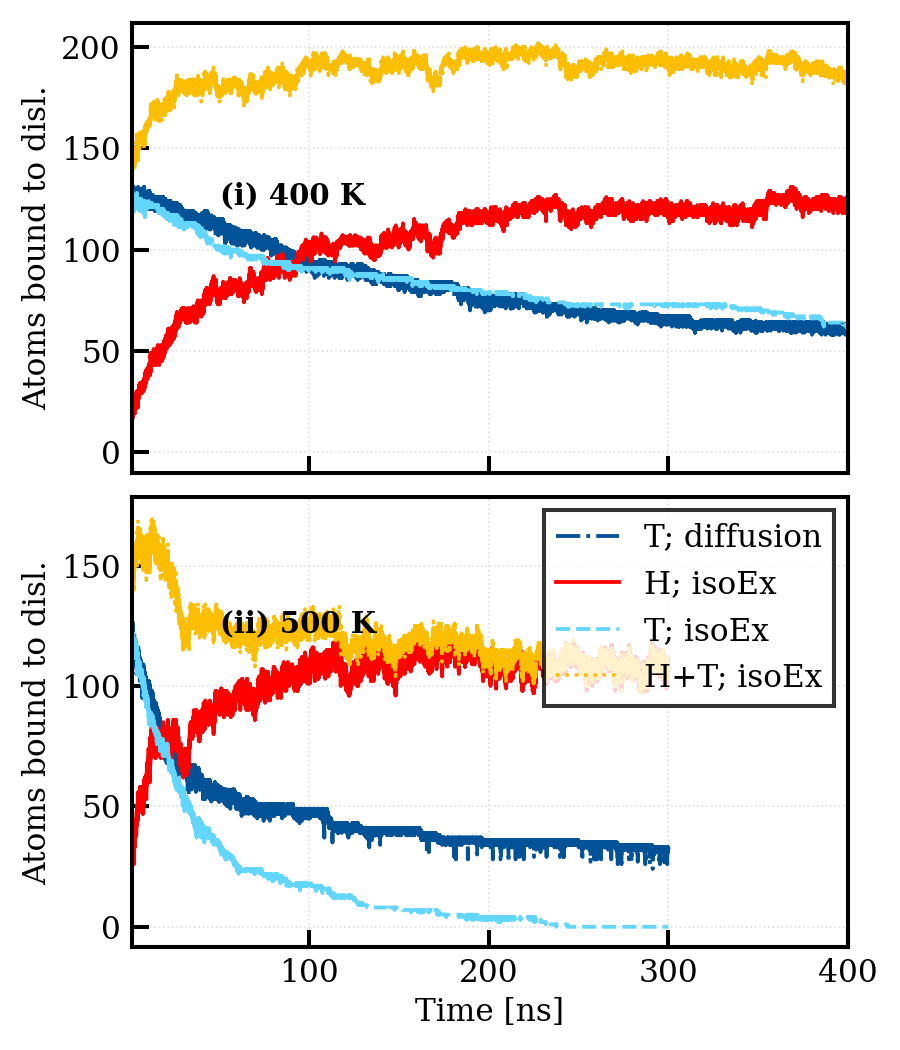
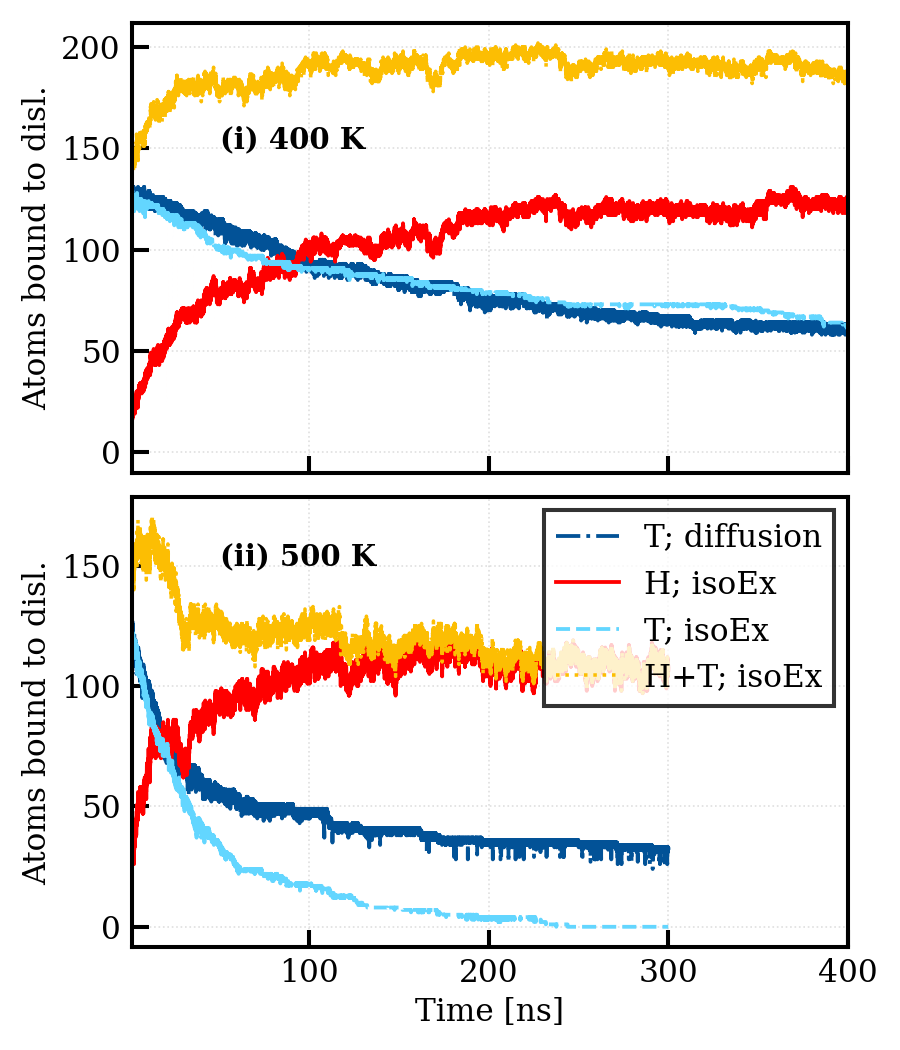
adjust plot labels

Changed region(s): [[0.2489, 0.1219, 0.4044, 0.2133], [0.2489, 0.579, 0.4356, 0.6095], [0.2489, 0.5181, 0.4356, 0.5486]]

diff --git a/plotting-scripts/plot_disloc_isoEx_comp.py b/plotting-scripts/plot_disloc_isoEx_comp.py
@@ -11,7 +11,7 @@ path += 'disloc_isoEx_results/'
 # HinVac.out format: Timestep NTinVac NHinVac NTinCell
 tTH_isoEx_400K = readData(path+'disloc_isoEx_400K_500ns/HinDisl.out', [0,1,2])
 tT_diff_400K = readData(path+'disloc_isoEx_400K_0H_500ns/HinDisl.out', [0,1])
-tTH_isoEx_500K = readData(path+'disloc_isoEx_500K_300ns/HinDisl.out', [0,1,2])
+tTH_isoEx_500K = readData(path+'disloc_isoEx_500K_350ns/HinDisl.out', [0,1,2])
 tT_diff_500K = readData(path+'disloc_isoEx_500K_0H_300ns/HinDisl.out', [0,1])
 
 # Convert timesteps --> time in ns
@@ -53,7 +53,7 @@ plotter(tTH_isoEx_400K[init:final:step, 0], tTH_isoEx_400K[init:final:step, 1], 
 plotter(tTH_isoEx_400K[init:final:step, 0], tTH_isoEx_400K[init:final:step,1]+tTH_isoEx_400K[init:final:step,2], isoEx_style['H+T'], isoEx_labels['H+T']) 
 plt.xlim((1, xulim))
 plt.ylabel(ylbl)
-plt.text(50, 122.5, '(i) 400 K', font)
+plt.text(50, 150, '(i) 400 K', font)
 plt.gca().axes.get_xaxis().set_ticklabels([]) # Hide x-axis tick labels
 
 # 500 K
@@ -65,7 +65,7 @@ plotter(tTH_isoEx_500K[init:final:step, 0], tTH_isoEx_500K[init:final:step,1]+tT
 plt.xlim((1, xulim))
 plt.xlabel(xlbl)
 plt.ylabel(ylbl)
-plt.text(50, 122.5, '(ii) 500 K', font)
+plt.text(50, 150, '(ii) 500 K', font)
 leg = plt.legend(loc='upper right', bbox_to_anchor=(0.999, 0.999), framealpha=0.8) 
 leg.get_frame().set_linewidth(1.5*pltm)  # Legend bow linewidth
 #plt.gca().axes.get_xaxis().set_ticklabels([]) # Hide x-axis tick labels
@@ -91,7 +91,7 @@ plotter(tTH_isoEx_400K[init:final:step, 0], tTH_isoEx_400K[init:final:step, 1], 
 plotter(tTH_isoEx_400K[init:final:step, 0], tTH_isoEx_400K[init:final:step,1]+tTH_isoEx_400K[init:final:step,2], isoEx_style['H+T'], isoEx_labels['H+T']) 
 plt.xlim((1, xulim))
 plt.ylabel(ylbl)
-plt.text(1.3, 88, '(i) 400 K', font)
+plt.text(1.3, 175, '(i) 400 K', font)
 #leg = plt.legend(loc='lower right', bbox_to_anchor=(0.99, 0.03))
 #leg.get_frame().set_linewidth(1.5*pltm)  # Legend bow linewidth
 plt.gca().axes.get_xaxis().set_ticklabels([]) # Hide x-axis tick labels
@@ -103,9 +103,10 @@ plotter(tTH_isoEx_500K[init:final:step, 0], tTH_isoEx_500K[init:final:step, 2], 
 plotter(tTH_isoEx_500K[init:final:step, 0], tTH_isoEx_500K[init:final:step, 1], isoEx_style['T_iso'], isoEx_labels['T_iso'])
 plotter(tTH_isoEx_500K[init:final:step, 0], tTH_isoEx_500K[init:final:step,1]+tTH_isoEx_500K[init:final:step,2], isoEx_style['H+T'], isoEx_labels['H+T']) 
 plt.xlim((1, xulim))
+plt.ylim((0, 200))
 plt.xlabel(xlbl)
 plt.ylabel(ylbl)
-plt.text(1.3, 88, '(ii) 500 K', font)
+plt.text(1.3, 175, '(ii) 500 K', font)
 #plt.gca().axes.get_xaxis().set_ticklabels([]) # Hide x-axis tick labels
 
 # Show & save figure

diff --git a/plotting-scripts/plot_GB_isoEx_comp.py b/plotting-scripts/plot_GB_isoEx_comp.py
@@ -53,7 +53,7 @@ plotter(tTH_isoEx_400K[init:final:step, 0], tTH_isoEx_400K[init:final:step,1]+tT
 plt.xlim((1, xulim))
 plt.xlabel(xlbl)
 plt.ylabel(ylbl)
-plt.text(105, 70, '(i) 400 K', font)
+plt.text(20, 115, '(i) 400 K', font)
 plt.gca().axes.get_xaxis().set_ticklabels([]) # Hide x-axis tick labels
 leg = plt.legend(loc='upper right', bbox_to_anchor=(0.999, 0.999), framealpha=0.8)
 leg.get_frame().set_linewidth(1.5*pltm)  # Legend bow linewidth 
@@ -65,9 +65,10 @@ plotter(tTH_isoEx_500K[init:final:step, 0], tTH_isoEx_500K[init:final:step, 2], 
 plotter(tTH_isoEx_500K[init:final:step, 0], tTH_isoEx_500K[init:final:step, 1], isoEx_style['T_iso'], isoEx_labels['T_iso'])
 plotter(tTH_isoEx_500K[init:final:step, 0], tTH_isoEx_500K[init:final:step,1]+tTH_isoEx_500K[init:final:step,2], isoEx_style['H+T'], isoEx_labels['H+T']) 
 plt.xlim((1, xulim))
+plt.ylim((0, 125))
 plt.xlabel(xlbl)
 plt.ylabel(ylbl)
-plt.text(105, 75, '(ii) 500 K', font)
+plt.text(20, 110, '(ii) 500 K', font)
 #plt.gca().axes.get_xaxis().set_ticklabels([]) # Hide x-axis tick labels
 
 # Show & save figure
@@ -92,7 +93,7 @@ plotter(tTH_isoEx_400K[init:final:step, 0], tTH_isoEx_400K[init:final:step,1]+tT
 plt.xlim((1, xulim))
 plt.xlabel(xlbl)
 plt.ylabel(ylbl)
-plt.text(1.5, 58, '(i) 400 K', font)
+plt.text(1.5, 110, '(i) 400 K', font)
 plt.gca().axes.get_xaxis().set_ticklabels([]) # Hide x-axis tick labels
 
 # 500 K
@@ -102,9 +103,10 @@ plotter(tTH_isoEx_500K[init:final:step, 0], tTH_isoEx_500K[init:final:step, 2], 
 plotter(tTH_isoEx_500K[init:final:step, 0], tTH_isoEx_500K[init:final:step, 1], isoEx_style['T_iso'], isoEx_labels['T_iso'])
 plotter(tTH_isoEx_500K[init:final:step, 0], tTH_isoEx_500K[init:final:step,1]+tTH_isoEx_500K[init:final:step,2], isoEx_style['H+T'], isoEx_labels['H+T']) 
 plt.xlim((1, xulim))
+plt.ylim((0,110))
 plt.xlabel(xlbl)
 plt.ylabel(ylbl)
-plt.text(1.5, 75, '(ii) 500 K', font)
+plt.text(1.5, 95, '(ii) 500 K', font)
 #leg = plt.legend(loc='lower left', bbox_to_anchor=(0.02, 0.26))
 #leg.get_frame().set_linewidth(1.5*pltm)  # Legend bow linewidth
 #plt.gca().axes.get_xaxis().set_ticklabels([]) # Hide x-axis tick labels
